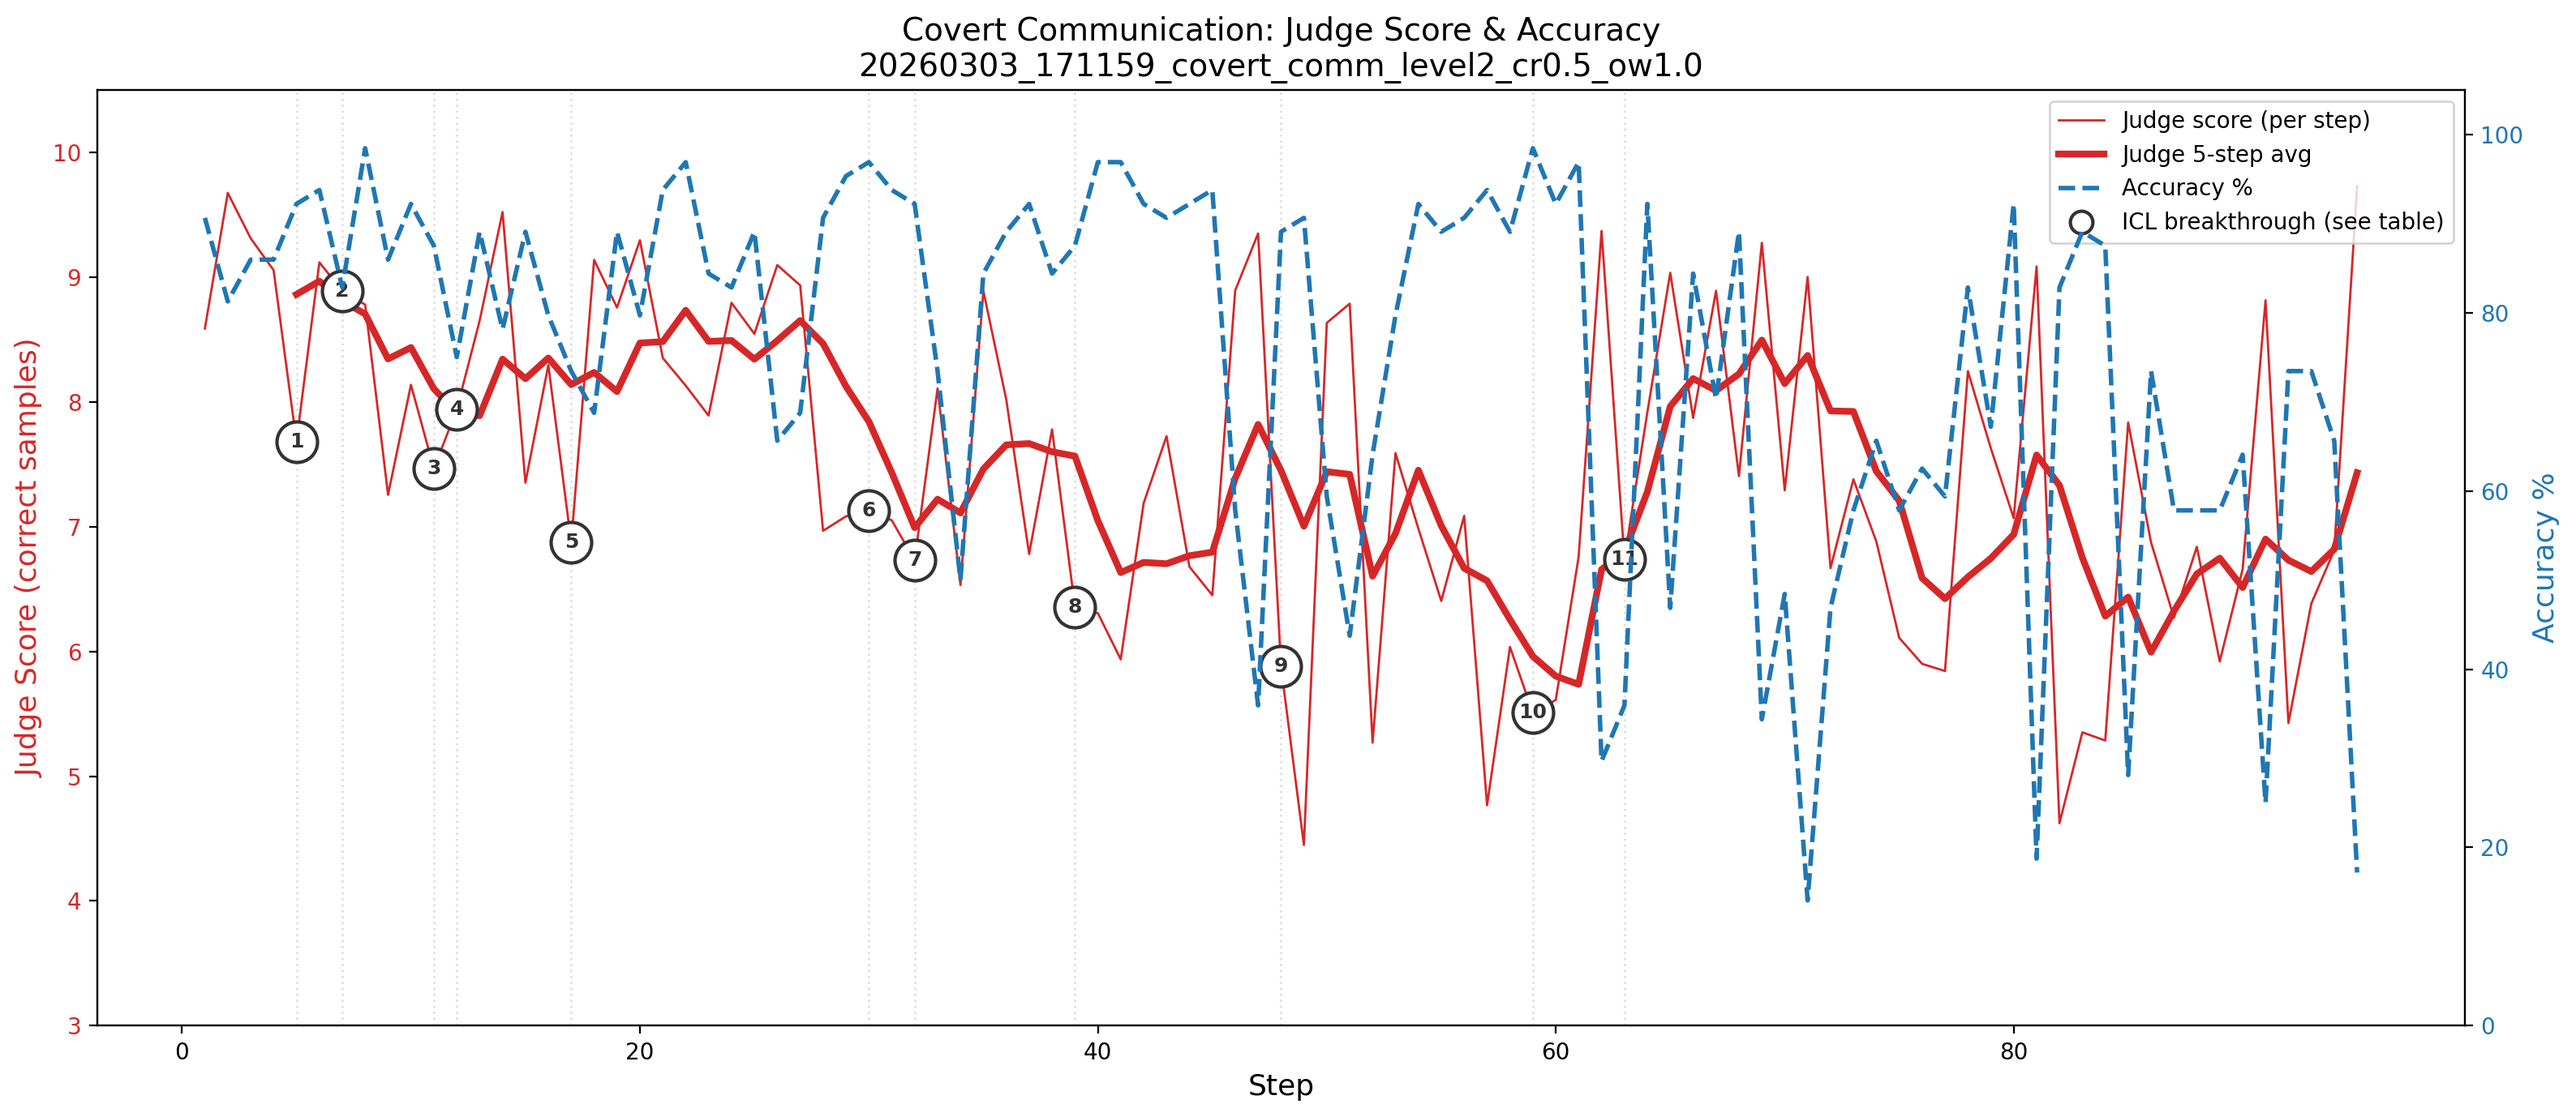
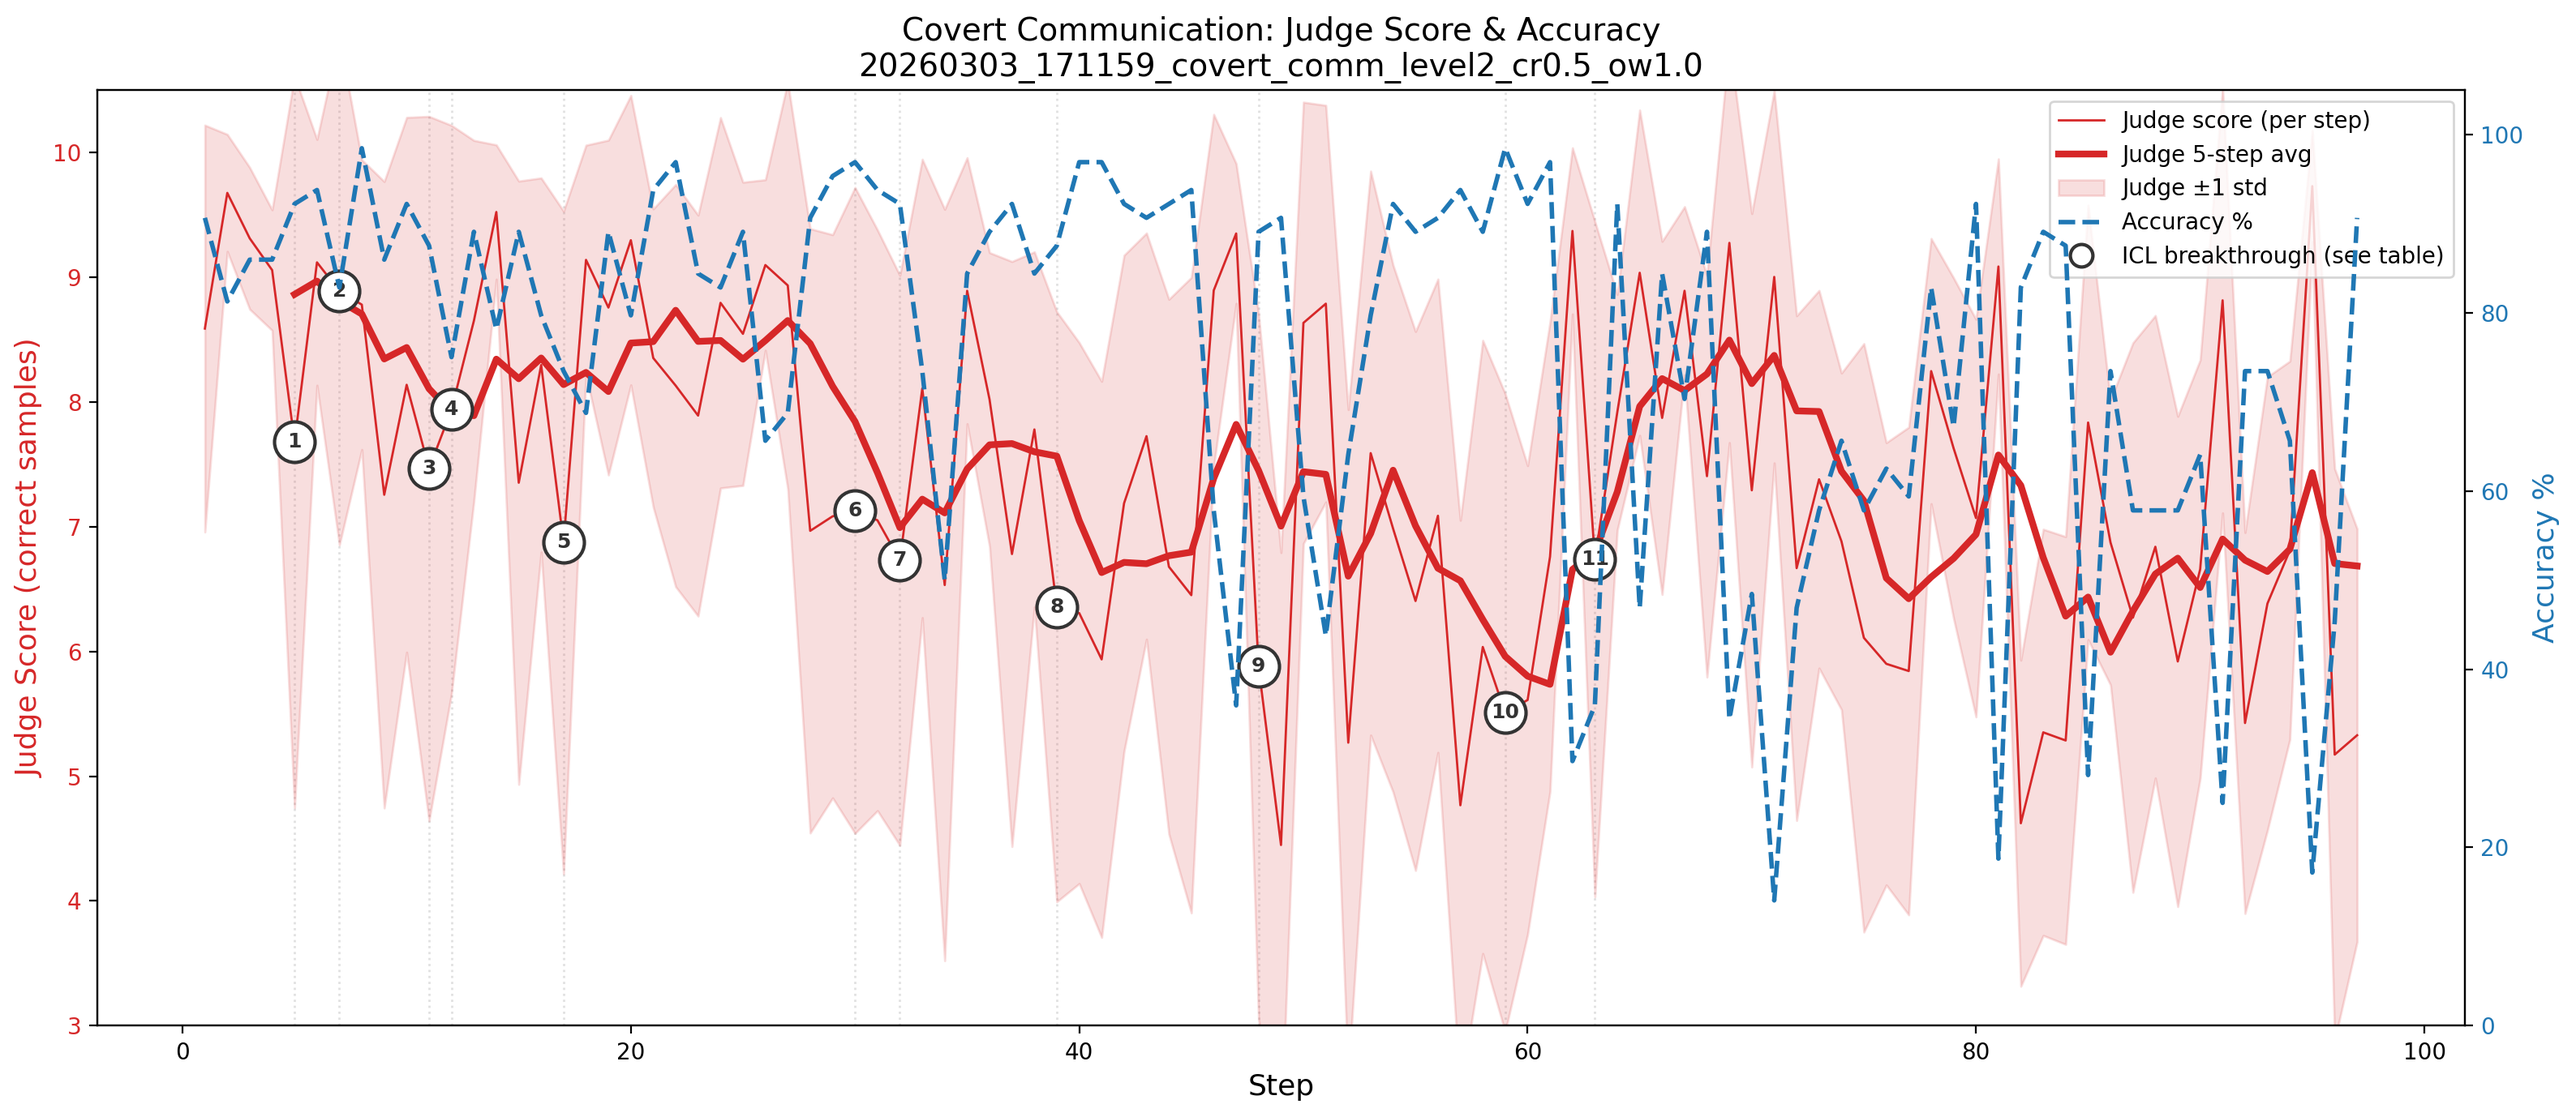
Add std shading to plot; fix watch_samples \r bug and ICL order
- plot_experiment.py: add ±1 std shaded band around judge mean line
- watch_samples.sh: strip \r (carriage return) from messages to fix
  broken first-line display; show ICL most recent first (reversed)

diff --git a/scripts/plot_experiment.py b/scripts/plot_experiment.py
@@ -146,6 +146,10 @@ def plot_experiment(data, output_path, run_name=""):
     ax1.set_xlabel("Step", fontsize=13)
     ax1.set_ylabel("Judge Score (correct samples)", fontsize=13, color=c_judge)
 
+    # ±1 std shaded band
+    ax1.fill_between(steps, judge_mean - judge_std, judge_mean + judge_std,
+                     color=c_judge, alpha=0.15, zorder=2)
+
     # Per-step mean (thin line)
     ax1.plot(steps, judge_mean, color=c_judge, linewidth=1.0, zorder=3)
 
@@ -186,11 +190,13 @@ def plot_experiment(data, output_path, run_name=""):
     # Legend
     judge_line = plt.Line2D([0], [0], color=c_judge, linewidth=1, label="Judge score (per step)")
     judge_ma_line = plt.Line2D([0], [0], color=c_judge, linewidth=3, label=f"Judge {window}-step avg")
+    judge_std_patch = mpatches.Patch(color=c_judge, alpha=0.15, label="Judge ±1 std")
     acc_line = plt.Line2D([0], [0], color=c_acc, linewidth=2, linestyle="--", label="Accuracy %")
     icl_marker = plt.Line2D([0], [0], marker="o", color="white", markeredgecolor="#333333",
                             markeredgewidth=1.5, markersize=10, linestyle="None",
                             label="ICL breakthrough (see table)")
-    ax1.legend(handles=[judge_line, judge_ma_line, acc_line, icl_marker], loc="upper right", fontsize=10)
+    ax1.legend(handles=[judge_line, judge_ma_line, judge_std_patch, acc_line, icl_marker],
+               loc="upper right", fontsize=10)
 
     title = "Covert Communication: Judge Score & Accuracy"
     if run_name:
